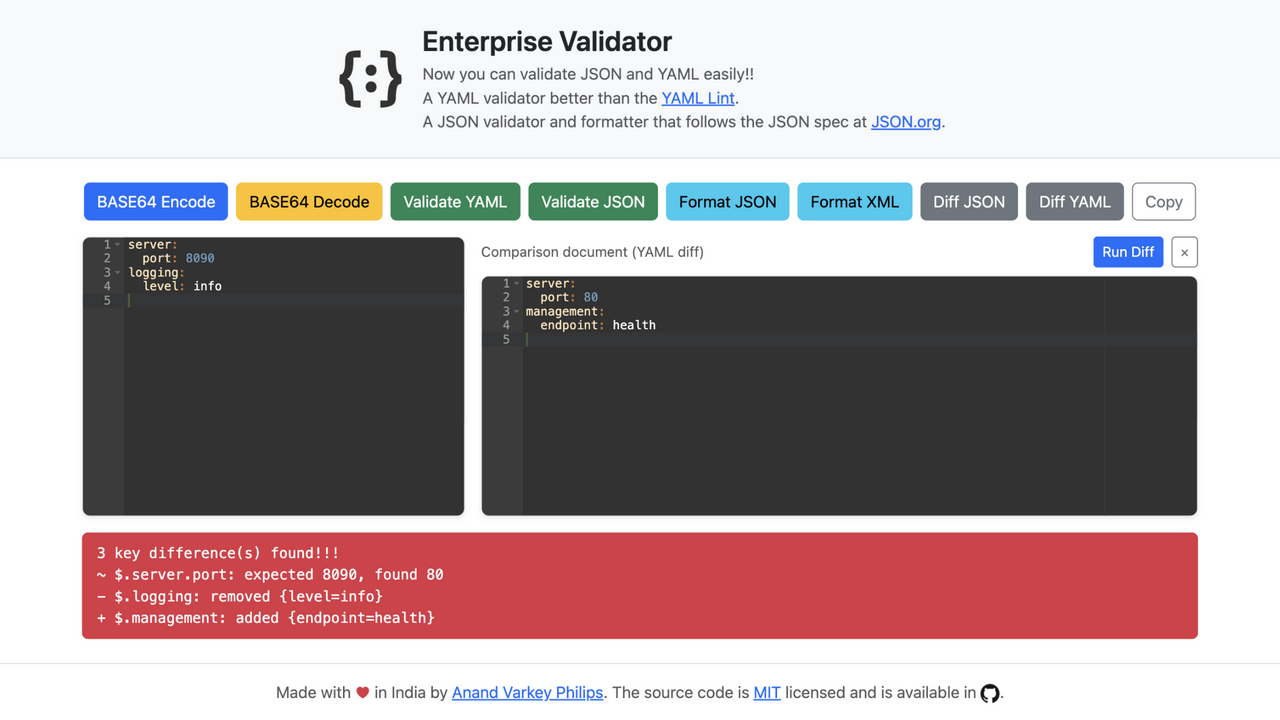
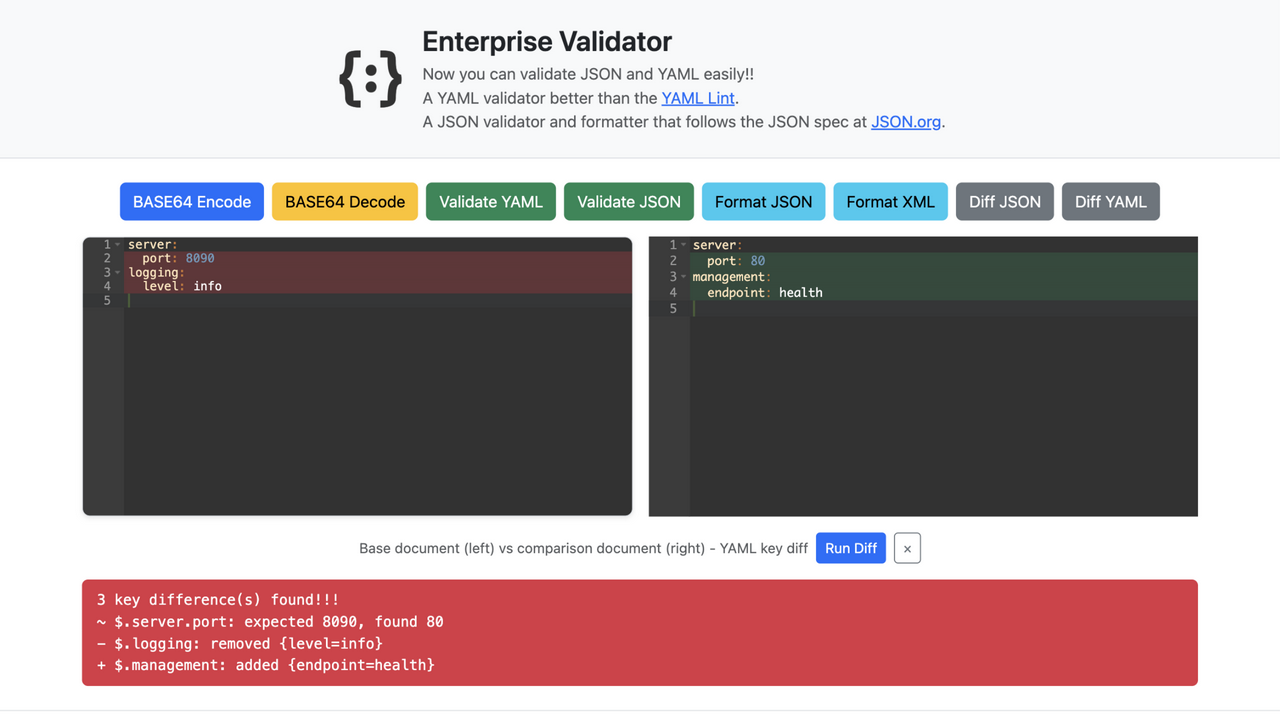
ui: remove the Copy button and clipboard flow; refresh screenshot
The clipboard copy option is retired along with the earlier email
share - the toolbar is down to the eight validation, formatting and
diff actions. Editor button markup, the clipboard handler, its Playwright
spec and the stale README share bullet removed; README screenshot
re-captured from the current side-by-side diff view (23 e2e specs).

Changed region(s): [[0.0625, 0.2444, 0.9375, 0.9778]]

diff --git a/e2e/tests/editor.spec.ts b/e2e/tests/editor.spec.ts
@@ -40,9 +40,9 @@ test.describe('editor page', () => {
     expect(editorValue).toContain('port: 8090');
   });
 
-  test('shows all nine action buttons', async ({ page }) => {
+  test('shows all eight action buttons', async ({ page }) => {
     for (const id of ['encodeData', 'decodeData', 'validateYamlData', 'validateJsonData',
-      'formatJsonData', 'formatXmlData', 'diffJsonData', 'diffYamlData', 'copyData']) {
+      'formatJsonData', 'formatXmlData', 'diffJsonData', 'diffYamlData']) {
       await expect(page.locator(`#${id}`)).toBeVisible();
     }
   });
@@ -132,15 +132,6 @@ test.describe('XML formatting', () => {
   });
 });
 
-test.describe('copy', () => {
-  test('copy button copies the editor content and confirms', async ({ page }) => {
-    await setEditorValue(page, 'Anand');
-    await page.click('#copyData');
-    const result = page.locator('#validationResultBlock');
-    await expect(result).toHaveClass(/validation-message-success/);
-    await expect(result).toContainText('copied to the clipboard');
-  });
-});
 
 test.describe('Base64 encoding', () => {
   test('encodes plain text to Base64', async ({ page }) => {

diff --git a/src/main/resources/static/js/editor.js b/src/main/resources/static/js/editor.js
@@ -189,21 +189,6 @@ document.addEventListener('DOMContentLoaded', function() {
   actionButton('formatJsonData', 'json', 'formatJson');
   actionButton('formatXmlData', 'xml', 'formatXml');
 
-  document.getElementById('copyData').addEventListener('click', function() {
-    resetVisualState();
-    closeComparePane();
-    var data = editor.getValue();
-    if (navigator.clipboard?.writeText) {
-      navigator.clipboard.writeText(data).then(function() {
-        updateResult('Editor content copied to the clipboard.', 'validation-message-success');
-      }).catch(function() {
-        updateResult('Copying to the clipboard was blocked by the browser.', 'validation-message-error');
-      });
-    } else {
-      updateResult('The clipboard is not available in this browser.', 'validation-message-error');
-    }
-  });
-
   var diffMode = null;
   var compareEditorElement = document.getElementById('compareEditor');
   var diffBar = document.getElementById('diffBar');

diff --git a/.github/README.md b/.github/README.md
@@ -31,7 +31,6 @@ SonarCloud, Maven Central and Azure App Service — with no servers to patch.*
 * **XML formatting** with pretty printing.
 * **Base64 encoding and decoding** — no need for https://www.base64decode.org/.
 * **Key-based diff** between two JSON or YAML documents - added, removed and changed key paths.
-* **Share** the editor content by copying it to the clipboard or opening a pre-filled email.
 * **OpenAPI / Swagger UI** documentation of every endpoint at `/swagger-ui.html`.
 
 ## Engineering practices
